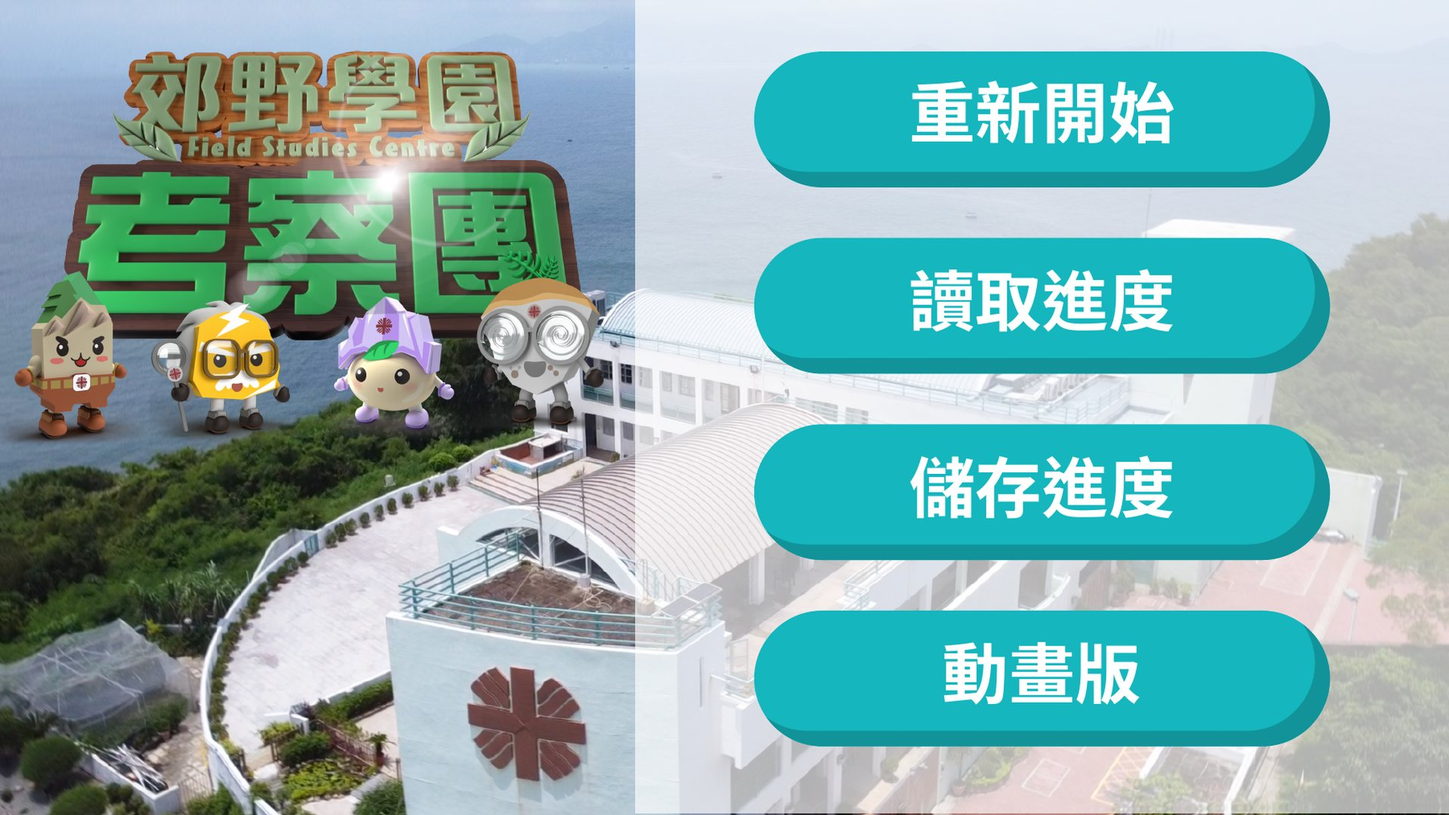
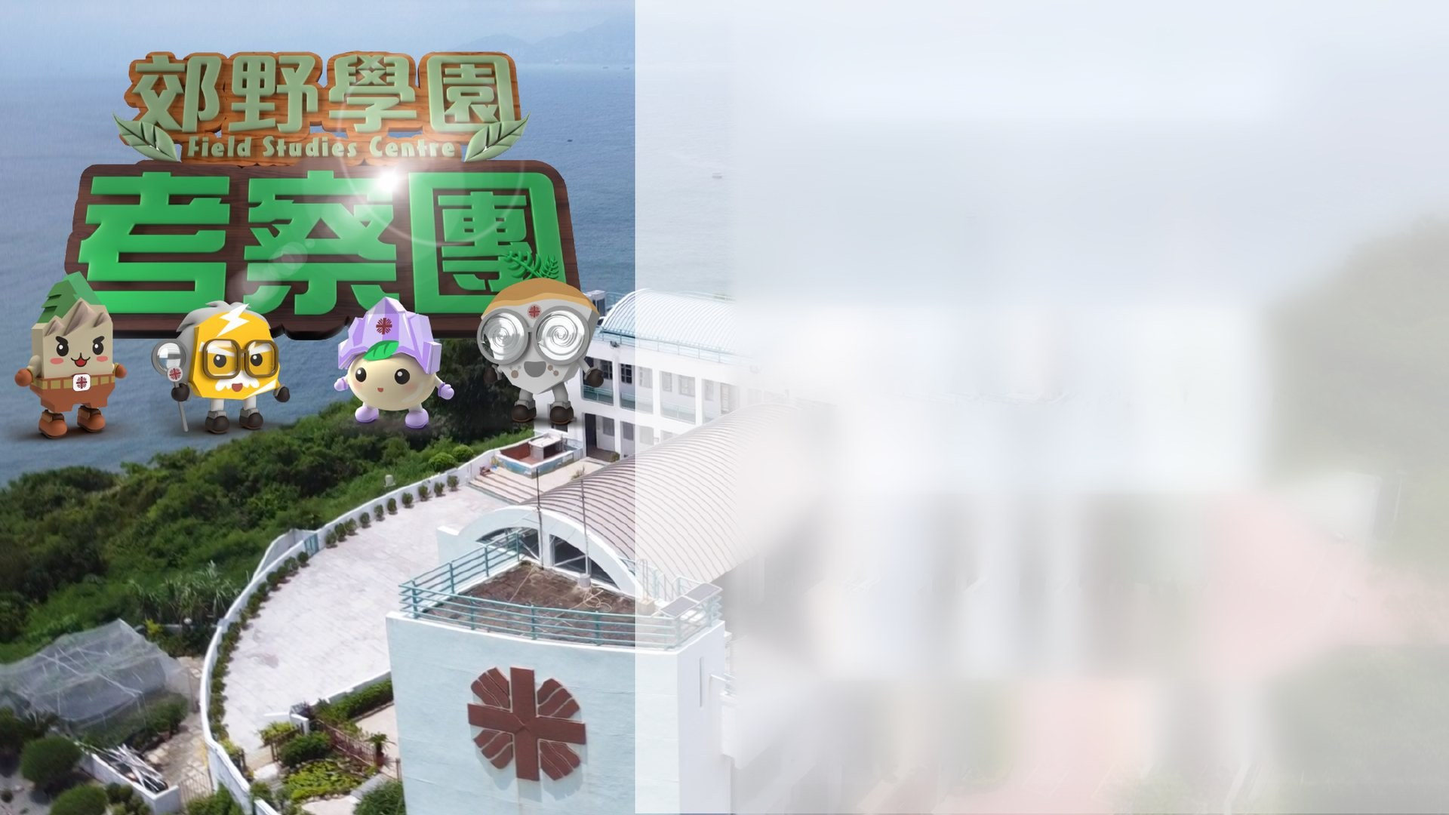
更新學校版 s1-20261127-1332：清走選單背景內建按鈕，並修正從標題讀取進度會走錯頁的問題

diff --git a/index.html b/index.html
@@ -8,40 +8,40 @@
 <meta property="og:title" content="郊野學園考察團">
 <meta property="og:type" content="website">
 <meta name="twitter:title" content="郊野學園考察團">
-<link rel="stylesheet" href="style.css?v=s1-20261127-1258">
-<link rel="preload" as="image" href="intro/01-title.jpg?v=s1-20261127-1258">
-<link rel="preload" as="image" href="intro/02-depart.jpg?v=s1-20261127-1258">
-<link rel="preload" as="image" href="intro/03-late.jpg?v=s1-20261127-1258">
-<link rel="preload" as="image" href="intro/04-skill.jpg?v=s1-20261127-1258">
-<link rel="preload" as="image" href="intro/05-accident.jpg?v=s1-20261127-1258">
-<link rel="preload" as="image" href="intro/06-news.jpg?v=s1-20261127-1258">
-<link rel="preload" as="image" href="intro/s1-search.jpg?v=s1-20261127-1258">
-<link rel="preload" as="video" href="intro/s1-found.mp4?v=s1-20261127-1258">
-<link rel="preload" as="image" href="intro/s1-found-poster.jpg?v=s1-20261127-1258">
-<link rel="preload" as="image" href="intro/s2-search.jpg?v=s1-20261127-1258">
-<link rel="preload" as="video" href="intro/s2-found.mp4?v=s1-20261127-1258">
-<link rel="preload" as="image" href="intro/s2-found-poster.jpg?v=s1-20261127-1258">
-<link rel="preload" as="image" href="intro/s3-search.jpg?v=s1-20261127-1258">
-<link rel="preload" as="video" href="intro/s3-found.mp4?v=s1-20261127-1258">
-<link rel="preload" as="image" href="intro/s3-found-poster.jpg?v=s1-20261127-1258">
-<link rel="preload" as="image" href="intro/s4-search.jpg?v=s1-20261127-1258">
-<link rel="preload" as="video" href="intro/s4-found.mp4?v=s1-20261127-1258">
-<link rel="preload" as="image" href="intro/s4-found-poster.jpg?v=s1-20261127-1258">
-<link rel="preload" as="image" href="intro/s1-bridge-1.jpg?v=s1-20261127-1258">
-<link rel="preload" as="image" href="intro/s1-bridge-2.jpg?v=s1-20261127-1258">
-<link rel="preload" as="image" href="intro/s2-bridge-1.jpg?v=s1-20261127-1258">
-<link rel="preload" as="image" href="intro/s3-bridge-1.jpg?v=s1-20261127-1258">
-<link rel="preload" as="image" href="intro/s3-bridge-2.jpg?v=s1-20261127-1258">
-<link rel="preload" as="video" href="media/intro.mp4?v=s1-20261127-1258">
-<link rel="preload" as="audio" href="media/bgm.mp3?v=s1-20261127-1258">
-<link rel="preload" as="audio" href="media/theme.mp3?v=s1-20261127-1258">
-<link rel="preload" as="image" href="intro/menu-bg.jpg?v=s1-20261127-1258">
-<link rel="preload" as="image" href="intro/quiz-intro.jpg?v=s1-20261127-1258">
-<link rel="preload" as="image" href="intro/quiz-bg.jpg?v=s1-20261127-1258">
-<link rel="preload" as="image" href="intro/quiz-correct.jpg?v=s1-20261127-1258">
-<link rel="preload" as="image" href="intro/quiz-wrong.jpg?v=s1-20261127-1258">
+<link rel="stylesheet" href="style.css?v=s1-20261127-1332">
+<link rel="preload" as="image" href="intro/01-title.jpg?v=s1-20261127-1332">
+<link rel="preload" as="image" href="intro/02-depart.jpg?v=s1-20261127-1332">
+<link rel="preload" as="image" href="intro/03-late.jpg?v=s1-20261127-1332">
+<link rel="preload" as="image" href="intro/04-skill.jpg?v=s1-20261127-1332">
+<link rel="preload" as="image" href="intro/05-accident.jpg?v=s1-20261127-1332">
+<link rel="preload" as="image" href="intro/06-news.jpg?v=s1-20261127-1332">
+<link rel="preload" as="image" href="intro/s1-search.jpg?v=s1-20261127-1332">
+<link rel="preload" as="video" href="intro/s1-found.mp4?v=s1-20261127-1332">
+<link rel="preload" as="image" href="intro/s1-found-poster.jpg?v=s1-20261127-1332">
+<link rel="preload" as="image" href="intro/s2-search.jpg?v=s1-20261127-1332">
+<link rel="preload" as="video" href="intro/s2-found.mp4?v=s1-20261127-1332">
+<link rel="preload" as="image" href="intro/s2-found-poster.jpg?v=s1-20261127-1332">
+<link rel="preload" as="image" href="intro/s3-search.jpg?v=s1-20261127-1332">
+<link rel="preload" as="video" href="intro/s3-found.mp4?v=s1-20261127-1332">
+<link rel="preload" as="image" href="intro/s3-found-poster.jpg?v=s1-20261127-1332">
+<link rel="preload" as="image" href="intro/s4-search.jpg?v=s1-20261127-1332">
+<link rel="preload" as="video" href="intro/s4-found.mp4?v=s1-20261127-1332">
+<link rel="preload" as="image" href="intro/s4-found-poster.jpg?v=s1-20261127-1332">
+<link rel="preload" as="image" href="intro/s1-bridge-1.jpg?v=s1-20261127-1332">
+<link rel="preload" as="image" href="intro/s1-bridge-2.jpg?v=s1-20261127-1332">
+<link rel="preload" as="image" href="intro/s2-bridge-1.jpg?v=s1-20261127-1332">
+<link rel="preload" as="image" href="intro/s3-bridge-1.jpg?v=s1-20261127-1332">
+<link rel="preload" as="image" href="intro/s3-bridge-2.jpg?v=s1-20261127-1332">
+<link rel="preload" as="video" href="media/intro.mp4?v=s1-20261127-1332">
+<link rel="preload" as="audio" href="media/bgm.mp3?v=s1-20261127-1332">
+<link rel="preload" as="audio" href="media/theme.mp3?v=s1-20261127-1332">
+<link rel="preload" as="image" href="intro/menu-bg.jpg?v=s1-20261127-1332">
+<link rel="preload" as="image" href="intro/quiz-intro.jpg?v=s1-20261127-1332">
+<link rel="preload" as="image" href="intro/quiz-bg.jpg?v=s1-20261127-1332">
+<link rel="preload" as="image" href="intro/quiz-correct.jpg?v=s1-20261127-1332">
+<link rel="preload" as="image" href="intro/quiz-wrong.jpg?v=s1-20261127-1332">
 <script>
-window.GAME_BUILD = 's1-20261127-1258';
+window.GAME_BUILD = 's1-20261127-1332';
 window.GAME_DEBUG = /(?:^|[?&])debug=1(?:&|$)/.test(location.search);
 if (!window.GAME_DEBUG) document.documentElement.classList.add('release');
 // ES5 bootstrap remains executable even if a later game script fails to parse.
@@ -128,14 +128,14 @@ window.addEventListener('unhandledrejection', function(ev) {
   });
 });
 </script>
-<script defer src="hk-map.js?v=s1-20261127-1258" onload="if(!window.__startupInfo.ready)window.__startup('scripts','核心程式 1/2 已載入；正在載入飛行控制',false)"></script>
-<script defer src="game.js?v=s1-20261127-1258"></script>
+<script defer src="hk-map.js?v=s1-20261127-1332" onload="if(!window.__startupInfo.ready)window.__startup('scripts','核心程式 1/2 已載入；正在載入飛行控制',false)"></script>
+<script defer src="game.js?v=s1-20261127-1332"></script>
 </head>
 <body>
 <main>
 <div id="stage">
 <canvas id="world" aria-label="郊野學園考察團三維飛行畫面"></canvas>
-<div id="build-id" title="版本識別" hidden>版本 s1-20261127-1258</div>
+<div id="build-id" title="版本識別" hidden>版本 s1-20261127-1332</div>
 <div class="top-bar">
   <button type="button" id="home" class="icon-btn flight-hud" aria-label="主頁" title="主頁">
     <svg viewBox="0 0 24 24" aria-hidden="true"><path d="M4.5 11.2 12 4.4l7.5 6.8v8.4a1.2 1.2 0 0 1-1.2 1.2h-4.3v-5.3h-4v5.3H5.7a1.2 1.2 0 0 1-1.2-1.2z"/></svg>
@@ -211,7 +211,7 @@ window.addEventListener('unhandledrejection', function(ev) {
 </div>
 </div>
 <div id="map-credit" class="flight-hud">
-  <img class="landsd-logo" src="landsd-logo.svg?v=s1-20261127-1258" width="120" height="14" alt="地政總署">
+  <img class="landsd-logo" src="landsd-logo.svg?v=s1-20261127-1332" width="120" height="14" alt="地政總署">
   <p>Aerial Photograph from Lands Department／航拍影像 © 地政總署</p>
 </div>
 <section id="stream-notice" hidden aria-label="地圖載入狀態">
@@ -228,7 +228,7 @@ window.addEventListener('unhandledrejection', function(ev) {
 <button type="button" id="start" disabled>載入畫面…</button>
 <button type="button" id="title-home">返回標題</button>
 <button type="button" id="explore" class="secondary" hidden disabled>自由飛行</button>
-<a id="startup-retry" href="?v=s1-20261127-1258&amp;quality=low">手機相容模式重載</a>
+<a id="startup-retry" href="?v=s1-20261127-1332&amp;quality=low">手機相容模式重載</a>
 </div>
 <div class="brief-content">
 <p id="briefing">這是《郊野學園考察團》。全程最低離地高度為 30 米，方便觀看航拍地貌。地圖只載入長洲及附近海域，不能飛往香港其他地區。圖磚未到也可先開始；失敗時會改用長洲離線地圖並在畫面標示。直升機模型於起飛後背景下載，同一局會自動顯示。</p>
@@ -256,39 +256,40 @@ window.addEventListener('unhandledrejection', function(ev) {
     <button type="button" class="menu-slot" data-slot="0"></button>
     <button type="button" class="menu-slot" data-slot="1"></button>
     <button type="button" class="menu-slot" data-slot="2"></button>
-    <button type="button" id="menu-slots-back" class="menu-arrow" aria-label="返回選單"></button>
   </div>
+  <button type="button" id="menu-slots-back" class="menu-arrow" hidden aria-label="返回選單"></button>
+  <p id="menu-status" hidden></p>
   <div id="menu-confirm" hidden>
     <button type="button" id="menu-confirm-yes" aria-label="確定"></button>
     <button type="button" id="menu-confirm-no" aria-label="取消"></button>
   </div>
 </div>
 <div id="intro">
-  <img id="intro-art" src="intro/01-title.jpg?v=s1-20261127-1258" width="1920" height="1080" alt="郊野學園考察團　出發吧～認識海岸地貌" draggable="false">
+  <img id="intro-art" src="intro/01-title.jpg?v=s1-20261127-1332" width="1920" height="1080" alt="郊野學園考察團　出發吧～認識海岸地貌" draggable="false">
   <video id="intro-found" hidden muted playsinline webkit-playsinline disablepictureinpicture controlslist="nodownload nofullscreen noremoteplayback" preload="auto"></video>
   <div id="intro-preload" hidden aria-hidden="true">
-    <img src="intro/02-depart.jpg?v=s1-20261127-1258" alt="" draggable="false">
-    <img src="intro/03-late.jpg?v=s1-20261127-1258" alt="" draggable="false">
-    <img src="intro/04-skill.jpg?v=s1-20261127-1258" alt="" draggable="false">
-    <img src="intro/05-accident.jpg?v=s1-20261127-1258" alt="" draggable="false">
-    <img src="intro/06-news.jpg?v=s1-20261127-1258" alt="" draggable="false">
-    <img src="intro/s1-search.jpg?v=s1-20261127-1258" alt="" draggable="false">
-    <img src="intro/s1-found-poster.jpg?v=s1-20261127-1258" alt="" draggable="false">
-    <video muted playsinline webkit-playsinline preload="auto" src="intro/s1-found.mp4?v=s1-20261127-1258"></video>
-    <img src="intro/s2-search.jpg?v=s1-20261127-1258" alt="" draggable="false">
-    <img src="intro/s2-found-poster.jpg?v=s1-20261127-1258" alt="" draggable="false">
-    <video muted playsinline webkit-playsinline preload="auto" src="intro/s2-found.mp4?v=s1-20261127-1258"></video>
-    <img src="intro/s3-search.jpg?v=s1-20261127-1258" alt="" draggable="false">
-    <img src="intro/s3-found-poster.jpg?v=s1-20261127-1258" alt="" draggable="false">
-    <video muted playsinline webkit-playsinline preload="auto" src="intro/s3-found.mp4?v=s1-20261127-1258"></video>
-    <img src="intro/s4-search.jpg?v=s1-20261127-1258" alt="" draggable="false">
-    <img src="intro/s4-found-poster.jpg?v=s1-20261127-1258" alt="" draggable="false">
-    <video muted playsinline webkit-playsinline preload="auto" src="intro/s4-found.mp4?v=s1-20261127-1258"></video>
-    <img src="intro/s1-bridge-1.jpg?v=s1-20261127-1258" alt="" draggable="false">
-    <img src="intro/s1-bridge-2.jpg?v=s1-20261127-1258" alt="" draggable="false">
-    <img src="intro/s2-bridge-1.jpg?v=s1-20261127-1258" alt="" draggable="false">
-    <img src="intro/s3-bridge-1.jpg?v=s1-20261127-1258" alt="" draggable="false">
-    <img src="intro/s3-bridge-2.jpg?v=s1-20261127-1258" alt="" draggable="false">
+    <img src="intro/02-depart.jpg?v=s1-20261127-1332" alt="" draggable="false">
+    <img src="intro/03-late.jpg?v=s1-20261127-1332" alt="" draggable="false">
+    <img src="intro/04-skill.jpg?v=s1-20261127-1332" alt="" draggable="false">
+    <img src="intro/05-accident.jpg?v=s1-20261127-1332" alt="" draggable="false">
+    <img src="intro/06-news.jpg?v=s1-20261127-1332" alt="" draggable="false">
+    <img src="intro/s1-search.jpg?v=s1-20261127-1332" alt="" draggable="false">
+    <img src="intro/s1-found-poster.jpg?v=s1-20261127-1332" alt="" draggable="false">
+    <video muted playsinline webkit-playsinline preload="auto" src="intro/s1-found.mp4?v=s1-20261127-1332"></video>
+    <img src="intro/s2-search.jpg?v=s1-20261127-1332" alt="" draggable="false">
+    <img src="intro/s2-found-poster.jpg?v=s1-20261127-1332" alt="" draggable="false">
+    <video muted playsinline webkit-playsinline preload="auto" src="intro/s2-found.mp4?v=s1-20261127-1332"></video>
+    <img src="intro/s3-search.jpg?v=s1-20261127-1332" alt="" draggable="false">
+    <img src="intro/s3-found-poster.jpg?v=s1-20261127-1332" alt="" draggable="false">
+    <video muted playsinline webkit-playsinline preload="auto" src="intro/s3-found.mp4?v=s1-20261127-1332"></video>
+    <img src="intro/s4-search.jpg?v=s1-20261127-1332" alt="" draggable="false">
+    <img src="intro/s4-found-poster.jpg?v=s1-20261127-1332" alt="" draggable="false">
+    <video muted playsinline webkit-playsinline preload="auto" src="intro/s4-found.mp4?v=s1-20261127-1332"></video>
+    <img src="intro/s1-bridge-1.jpg?v=s1-20261127-1332" alt="" draggable="false">
+    <img src="intro/s1-bridge-2.jpg?v=s1-20261127-1332" alt="" draggable="false">
+    <img src="intro/s2-bridge-1.jpg?v=s1-20261127-1332" alt="" draggable="false">
+    <img src="intro/s3-bridge-1.jpg?v=s1-20261127-1332" alt="" draggable="false">
+    <img src="intro/s3-bridge-2.jpg?v=s1-20261127-1332" alt="" draggable="false">
   </div>
   <button type="button" id="intro-start" class="intro-hit intro-start" aria-label="START"></button>
   <button type="button" id="intro-back" class="intro-hit intro-back" aria-label="上一頁" hidden></button>
@@ -297,12 +298,12 @@ window.addEventListener('unhandledrejection', function(ev) {
   <p id="intro-status" hidden role="status" aria-live="polite"></p>
 </div>
 <div id="liftoff" hidden>
-  <video id="liftoff-video" playsinline webkit-playsinline disablepictureinpicture controlslist="nodownload nofullscreen noremoteplayback" preload="auto" src="media/intro.mp4?v=s1-20261127-1258"></video>
+  <video id="liftoff-video" playsinline webkit-playsinline disablepictureinpicture controlslist="nodownload nofullscreen noremoteplayback" preload="auto" src="media/intro.mp4?v=s1-20261127-1332"></video>
 </div>
-<audio id="bgm" src="media/bgm.mp3?v=s1-20261127-1258" loop preload="auto"></audio>
-<audio id="theme" src="media/theme.mp3?v=s1-20261127-1258" loop preload="auto"></audio>
+<audio id="bgm" src="media/bgm.mp3?v=s1-20261127-1332" loop preload="auto"></audio>
+<audio id="theme" src="media/theme.mp3?v=s1-20261127-1332" loop preload="auto"></audio>
 <div id="ending" hidden>
-  <video id="ending-video" playsinline webkit-playsinline preload="metadata" src="media/ending.mp4?v=s1-20261127-1258"></video>
+  <video id="ending-video" playsinline webkit-playsinline preload="metadata" src="media/ending.mp4?v=s1-20261127-1332"></video>
   <button type="button" id="ending-skip">跳過</button>
   <button type="button" id="ending-play" hidden>播放</button>
   <div id="ending-progress" aria-hidden="true"><span></span></div>

diff --git a/game.js b/game.js
@@ -3,7 +3,7 @@
 function gameEntries(entries) { const result = {}; for (const pair of entries) result[pair[0]] = pair[1]; return result; }
 const LOW_POWER = !!window.GAME_LOW_POWER;
 if (window.__startup) window.__startup('webgl', '正在建立直升機 3D 畫面（' + (LOW_POWER ? '手機省資源' : '標準') + '）', false);
-const GAME_BUILD = window.GAME_BUILD || 's1-20261127-1258';
+const GAME_BUILD = window.GAME_BUILD || 's1-20261127-1332';
 // Diagnostic switches are explicit and independent of map loading/flight logic.
 // showDock restores the obsolete synthetic platform ONLY for identification.
 const renderQuery = new URLSearchParams(location.search);
@@ -1452,8 +1452,28 @@ function hideMenuConfirm() {
 function hideMenu() {
   hideMenuConfirm();
   menuSlotAction = null;
+  setMenuStatus('');
   const node = byId('menu');
   if (node) node.hidden = true;
+}
+
+function setMenuStatus(message, kind) {
+  const node = byId('menu-status');
+  if (!node) return;
+  if (!message) {
+    node.hidden = true;
+    node.textContent = '';
+    if (node.classList && typeof node.classList.remove === 'function') {
+      node.classList.remove('is-ok', 'is-warn');
+    }
+    return;
+  }
+  node.hidden = false;
+  node.textContent = message;
+  if (node.classList && typeof node.classList.remove === 'function') {
+    node.classList.remove('is-ok', 'is-warn');
+    if (kind && typeof node.classList.add === 'function') node.classList.add(kind === 'ok' ? 'is-ok' : 'is-warn');
+  }
 }
 
 function hasSeenIntroStory() {
@@ -1581,13 +1601,17 @@ function applySavePayload(data) {
   quizIntroSeen = !!data.quizIntroSeen;
   quizDeck = Array.isArray(data.quizDeck) ? data.quizDeck.map(n => n | 0) : [];
   if (data.craft && typeof craft === 'object') {
-    craft.x = Number(data.craft.x);
-    craft.y = Number(data.craft.y);
-    craft.z = Number(data.craft.z);
-    craft.yaw = Number(data.craft.yaw) || 0;
-    craft.vx = Number(data.craft.vx) || 0;
-    craft.vy = Number(data.craft.vy) || 0;
-    craft.vz = Number(data.craft.vz) || 0;
+    const num = (value, fallback) => {
+      const n = Number(value);
+      return Number.isFinite(n) ? n : fallback;
+    };
+    craft.x = num(data.craft.x, craft.x);
+    craft.y = num(data.craft.y, craft.y);
+    craft.z = num(data.craft.z, craft.z);
+    craft.yaw = num(data.craft.yaw, 0);
+    craft.vx = num(data.craft.vx, 0);
+    craft.vy = num(data.craft.vy, 0);
+    craft.vz = num(data.craft.vz, 0);
   }
   if (data.balloon && data.balloon.visible) {
     balloon.x = Number(data.balloon.x) || 0;
@@ -1608,8 +1632,9 @@ function applySavePayload(data) {
   return true;
 }
 
-function resumeAfterLoadOrContinue() {
-  const snap = menuSnapshot;
+function resumeAfterLoadOrContinue(options) {
+  const fromLoad = options && options.fromLoad;
+  const snap = fromLoad ? null : menuSnapshot;
   menuSnapshot = null;
   hideMenu();
   if (run.mode === 'ending' || (snap && snap.ending)) {
@@ -1665,7 +1690,7 @@ function loadSlot(index) {
   store.lastSlot = index;
   writeSaveStore(store);
   applySavePayload(data);
-  resumeAfterLoadOrContinue();
+  resumeAfterLoadOrContinue({ fromLoad: true });
   return true;
 }
 
@@ -1710,10 +1735,13 @@ function paintMenuSlots(action) {
 
 function showMenuPanel(name) {
   hideMenuConfirm();
+  setMenuStatus('');
   const home = byId('menu-home');
   const slots = byId('menu-slots');
+  const back = byId('menu-slots-back');
   if (home) home.hidden = name !== 'home';
   if (slots) slots.hidden = name !== 'slots';
+  if (back) back.hidden = name !== 'slots';
 }
 
 function refreshMenuHome() {
@@ -1721,7 +1749,11 @@ function refreshMenuHome() {
   const save = byId('menu-save');
   const playing = sessionInProgress();
   if (cont) cont.hidden = !playing;
-  if (save) save.disabled = !playing;
+  if (save) {
+    save.disabled = !playing;
+    save.title = playing ? '儲存進度到檔案位' : '尚未有可儲存的進度';
+    save.setAttribute('aria-disabled', playing ? 'false' : 'true');
+  }
 }
 
 function openMenu(options) {
@@ -1811,7 +1843,12 @@ function resolveMenuConfirm(ok) {
   hideMenuConfirm();
   if (!ok) return;
   if (kind === 'restart') confirmRestart();
-  else if (kind === 'save') { writeSlot(slot); showMenuPanel('home'); refreshMenuHome(); }
+  else if (kind === 'save') {
+    const ok = writeSlot(slot);
+    showMenuPanel('slots');
+    paintMenuSlots('save');
+    setMenuStatus(ok ? '已儲存進度' : '儲存失敗，請再試一次', ok ? 'ok' : 'warn');
+  }
   else if (kind === 'load') loadSlot(slot);
 }
 

diff --git a/style.css b/style.css
@@ -312,9 +312,14 @@ footer{display:none}
 #menu{position:absolute;inset:0;z-index:28;background:#000;user-select:none;-webkit-user-select:none}
 #menu[hidden]{display:none!important}
 #menu-art{position:absolute;inset:0;width:100%;height:100%;object-fit:fill;pointer-events:none}
-#menu .menu-panel{position:absolute;left:52.4%;right:5.6%;top:8.8%;bottom:10%;display:flex;flex-direction:column;justify-content:center;gap:3.3%;z-index:2}
-#menu .menu-btn,#menu .menu-slot,#menu .menu-slots-title{appearance:none;margin:0;border:0;border-radius:999px;min-height:14.2%;height:14.2%;padding:0 4%;font-size:5.4cqh;font-weight:900;letter-spacing:.06em;color:#fff;text-shadow:0 .2cqh .4cqh #0004;background:#15b6be;box-shadow:0 .45cqh 1.1cqh #0005;cursor:pointer;touch-action:manipulation;-webkit-tap-highlight-color:transparent}
-#menu .menu-btn:disabled,#menu .menu-slot:disabled{opacity:.42;cursor:default}
+#menu .menu-panel{position:absolute;left:52.4%;right:5.6%;top:15.2%;bottom:10%;display:flex;flex-direction:column;justify-content:center;gap:3.6%;z-index:2;pointer-events:auto}
+#menu .menu-btn,#menu .menu-slot,#menu .menu-slots-title{appearance:none;margin:0;border:0;border-radius:999px;min-height:14.2%;height:14.2%;padding:0 4%;font-size:5.4cqh;font-weight:900;letter-spacing:.06em;color:#fff;text-shadow:0 .2cqh .4cqh #0004;background:#15b6be;box-shadow:0 .45cqh 1.1cqh #0005;cursor:pointer;touch-action:manipulation;pointer-events:auto;-webkit-tap-highlight-color:transparent;flex:0 0 auto}
+#menu .menu-btn:disabled,#menu .menu-slot:disabled{opacity:.42;cursor:default;pointer-events:none}
+#menu .menu-btn[hidden],#menu-animation{display:none!important}
+#menu-status{position:absolute;left:52.4%;right:5.6%;bottom:2.4%;z-index:3;margin:0;text-align:center;font-size:2.6cqh;font-weight:800;letter-spacing:.04em;color:#12585c;text-shadow:0 0 .4cqh #fff,0 .1cqh .3cqh #fff;pointer-events:none}
+#menu-status[hidden]{display:none!important}
+#menu-status.is-ok{color:#0f7a3a}
+#menu-status.is-warn{color:#9a3b00}
 #menu .menu-btn:focus,#menu .menu-slot:focus,#menu .menu-arrow:focus,#menu-confirm-yes:focus,#menu-confirm-no:focus{outline:none}
 #menu .menu-btn:focus-visible,#menu .menu-slot:focus-visible,#menu .menu-arrow:focus-visible,#menu-confirm-yes:focus-visible,#menu-confirm-no:focus-visible{outline:2px solid #fccc76;outline-offset:3px}
 #menu .menu-slots-title{display:flex;align-items:center;justify-content:center;background:#ff751f;cursor:default;box-shadow:0 .45cqh 1.1cqh #0005}

diff --git a/README.md b/README.md
@@ -2,13 +2,13 @@
 
 WebGL 教學遊戲，地圖只覆蓋長洲及附近海域，使用直升機而非無人機。這不是已上線的個人版 `hkrgb/hk-drone-flight`。
 
-試玩：**https://caritasfsc-anthony.github.io/cheung-chau-helicopter/?v=s1-20261127-1258**
+試玩：**https://caritasfsc-anthony.github.io/cheung-chau-helicopter/?v=s1-20261127-1332**
 
-本機開發可用：http://127.0.0.1:8771/?v=s1-20261127-1258
+本機開發可用：http://127.0.0.1:8771/?v=s1-20261127-1332
 
 手機省資源可加 `&quality=low`。除錯可加 `&debug=1`。
 
-版本：**s1-20261127-1258**。從長洲南面海域海拔 589 米、朝向 340° 起飛；桌上版與手機都顯示左下 WASD、右下 J／Q／R／M 圖示加字母控制鍵；小地圖圖示改按實際畫布邊緣夾位；指南針字母下有半透明圓底。新增輕量按鈕亮光／按下縮放與 480ms 過場（輕微放大、提亮及暖金光暈），支援減少動態效果設定；指南針使用明確尺寸，直升機連同主／尾旋翼等比例放大 2 倍（9 米 → 18 米），追尾鏡頭不變。開場先顯示標題畫面，按 START 後翻頁看考察團故事；第 6 頁「準備出發」之後先進入第一個尋人標題（尋找莫博士），每個任務的尋人標題（包括第 2、3、4 章，以及由主頁或「再飛一次」重新開始）按 LET'S GO 後，都會先完整播放約 6 秒起飛短片（鋪滿 16:9 舞台、無播放器外框），然後才進入三維畫面；接近結尾時以約 1 秒交叉淡化轉入已在起飛點就緒的三維畫面，同時短片聲音淡出、背景音樂淡入。其後每個角色都是：標題頁 → 起飛短片 → 由同一南面海域起飛點再出發（只重設位置，不重設 10 分鐘共用計時）→ 飛行（提示含方位與地貌）→ 找到後的短動畫（正確 16:9、約 3 秒，靜音以免打斷主題曲，鋪滿舞台且不裁切角色或名稱；右下有真實繼續按鈕，可於播放期間或播完後繼續；播完會停在最後一格）→ 關卡之間的故事頁 → 下一節。飛行期間循環播放背景音樂。打開標題畫面就會嘗試播放主題曲（`media/theme.mp3`），唔使等 START；若瀏覽器攔截自動播放，喺頁面上嘅第一次點擊或按鍵就會開始。主題曲喺故事頁、尋人標題同找到目標畫面繼續循環；按 LET'S GO 會把主題曲淡出以免蓋過起飛短片聲音，找到目標時會把飛行背景音樂降低並從頭播放主題曲，再進入下一節飛行時改回背景音樂。右上全屏幕左邊有簡潔靜音掣（故事同找到畫面亦顯示），切走分頁會暫停，回來再繼續。救出斑班長後會播放約兩分鐘的結尾短片，播完或按「跳過」才到結果畫面。約 600 米內提示盒出現加厚 1.1cqh、雙層反向旋轉及柔光幻彩邊，約 300 米才顯示黃圈與距離。飛行畫面置中於 16:9 舞台，多餘空間為黑邊。全程最低離地高度 30 米；checkpoint（黃圈中心及距離標記）均按目前載入的地形高程即時計算，以離地高度（AGL）標示，並非固定海拔；海面最低視為海拔 0 米。尋找小螢為當地地面／海面以上 50 米，其餘三關為 30 米。黃圈半徑由 52 米縮至 22 米，避免降低後下半圈插入平坦地面／海面。起飛位置、海拔 589 米及 340° 航向不變。標題畫面按 START 會進入主選單（重新開始／讀取進度／儲存進度；進行中可繼續遊戲）。左上「主頁」或結果畫面的「返回標題」回到主選單，並保留當前進度，不會重設關卡。結果畫面「再飛一次」會回到第一個尋人標題，不再重播開場故事。每個篇章要隨機答對三條新題目，失蹤者提示、黃圈同位置才會解鎖。進度可存入三個本機檔案位，並會在答對、解鎖或回主頁時自動儲存。右上指南針為 north-up，指針隨航向轉動。直升機模型於起飛後背景下載，同一局自動顯示。圖磚未到也可先開始並操控；等候時會顯示計數、參考棋盤（並非真實海陸）及重試。
+版本：**s1-20261127-1332**。從長洲南面海域海拔 589 米、朝向 340° 起飛；桌上版與手機都顯示左下 WASD、右下 J／Q／R／M 圖示加字母控制鍵；小地圖圖示改按實際畫布邊緣夾位；指南針字母下有半透明圓底。新增輕量按鈕亮光／按下縮放與 480ms 過場（輕微放大、提亮及暖金光暈），支援減少動態效果設定；指南針使用明確尺寸，直升機連同主／尾旋翼等比例放大 2 倍（9 米 → 18 米），追尾鏡頭不變。開場先顯示標題畫面，按 START 後翻頁看考察團故事；第 6 頁「準備出發」之後先進入第一個尋人標題（尋找莫博士），每個任務的尋人標題（包括第 2、3、4 章，以及由主頁或「再飛一次」重新開始）按 LET'S GO 後，都會先完整播放約 6 秒起飛短片（鋪滿 16:9 舞台、無播放器外框），然後才進入三維畫面；接近結尾時以約 1 秒交叉淡化轉入已在起飛點就緒的三維畫面，同時短片聲音淡出、背景音樂淡入。其後每個角色都是：標題頁 → 起飛短片 → 由同一南面海域起飛點再出發（只重設位置，不重設 10 分鐘共用計時）→ 飛行（提示含方位與地貌）→ 找到後的短動畫（正確 16:9、約 3 秒，靜音以免打斷主題曲，鋪滿舞台且不裁切角色或名稱；右下有真實繼續按鈕，可於播放期間或播完後繼續；播完會停在最後一格）→ 關卡之間的故事頁 → 下一節。飛行期間循環播放背景音樂。打開標題畫面就會嘗試播放主題曲（`media/theme.mp3`），唔使等 START；若瀏覽器攔截自動播放，喺頁面上嘅第一次點擊或按鍵就會開始。主題曲喺故事頁、尋人標題同找到目標畫面繼續循環；按 LET'S GO 會把主題曲淡出以免蓋過起飛短片聲音，找到目標時會把飛行背景音樂降低並從頭播放主題曲，再進入下一節飛行時改回背景音樂。右上全屏幕左邊有簡潔靜音掣（故事同找到畫面亦顯示），切走分頁會暫停，回來再繼續。救出斑班長後會播放約兩分鐘的結尾短片，播完或按「跳過」才到結果畫面。約 600 米內提示盒出現加厚 1.1cqh、雙層反向旋轉及柔光幻彩邊，約 300 米才顯示黃圈與距離。飛行畫面置中於 16:9 舞台，多餘空間為黑邊。全程最低離地高度 30 米；checkpoint（黃圈中心及距離標記）均按目前載入的地形高程即時計算，以離地高度（AGL）標示，並非固定海拔；海面最低視為海拔 0 米。尋找小螢為當地地面／海面以上 50 米，其餘三關為 30 米。黃圈半徑由 52 米縮至 22 米，避免降低後下半圈插入平坦地面／海面。起飛位置、海拔 589 米及 340° 航向不變。標題畫面按 START 會進入主選單（重新開始／讀取進度／儲存進度；進行中可繼續遊戲）。左上「主頁」或結果畫面的「返回標題」回到主選單，並保留當前進度，不會重設關卡。結果畫面「再飛一次」會回到第一個尋人標題，不再重播開場故事。每個篇章要隨機答對三條新題目，失蹤者提示、黃圈同位置才會解鎖。進度可存入三個本機檔案位，並會在答對、解鎖或回主頁時自動儲存。右上指南針為 north-up，指針隨航向轉動。直升機模型於起飛後背景下載，同一局自動顯示。圖磚未到也可先開始並操控；等候時會顯示計數、參考棋盤（並非真實海陸）及重試。
 
 ## 操作與任務
 
